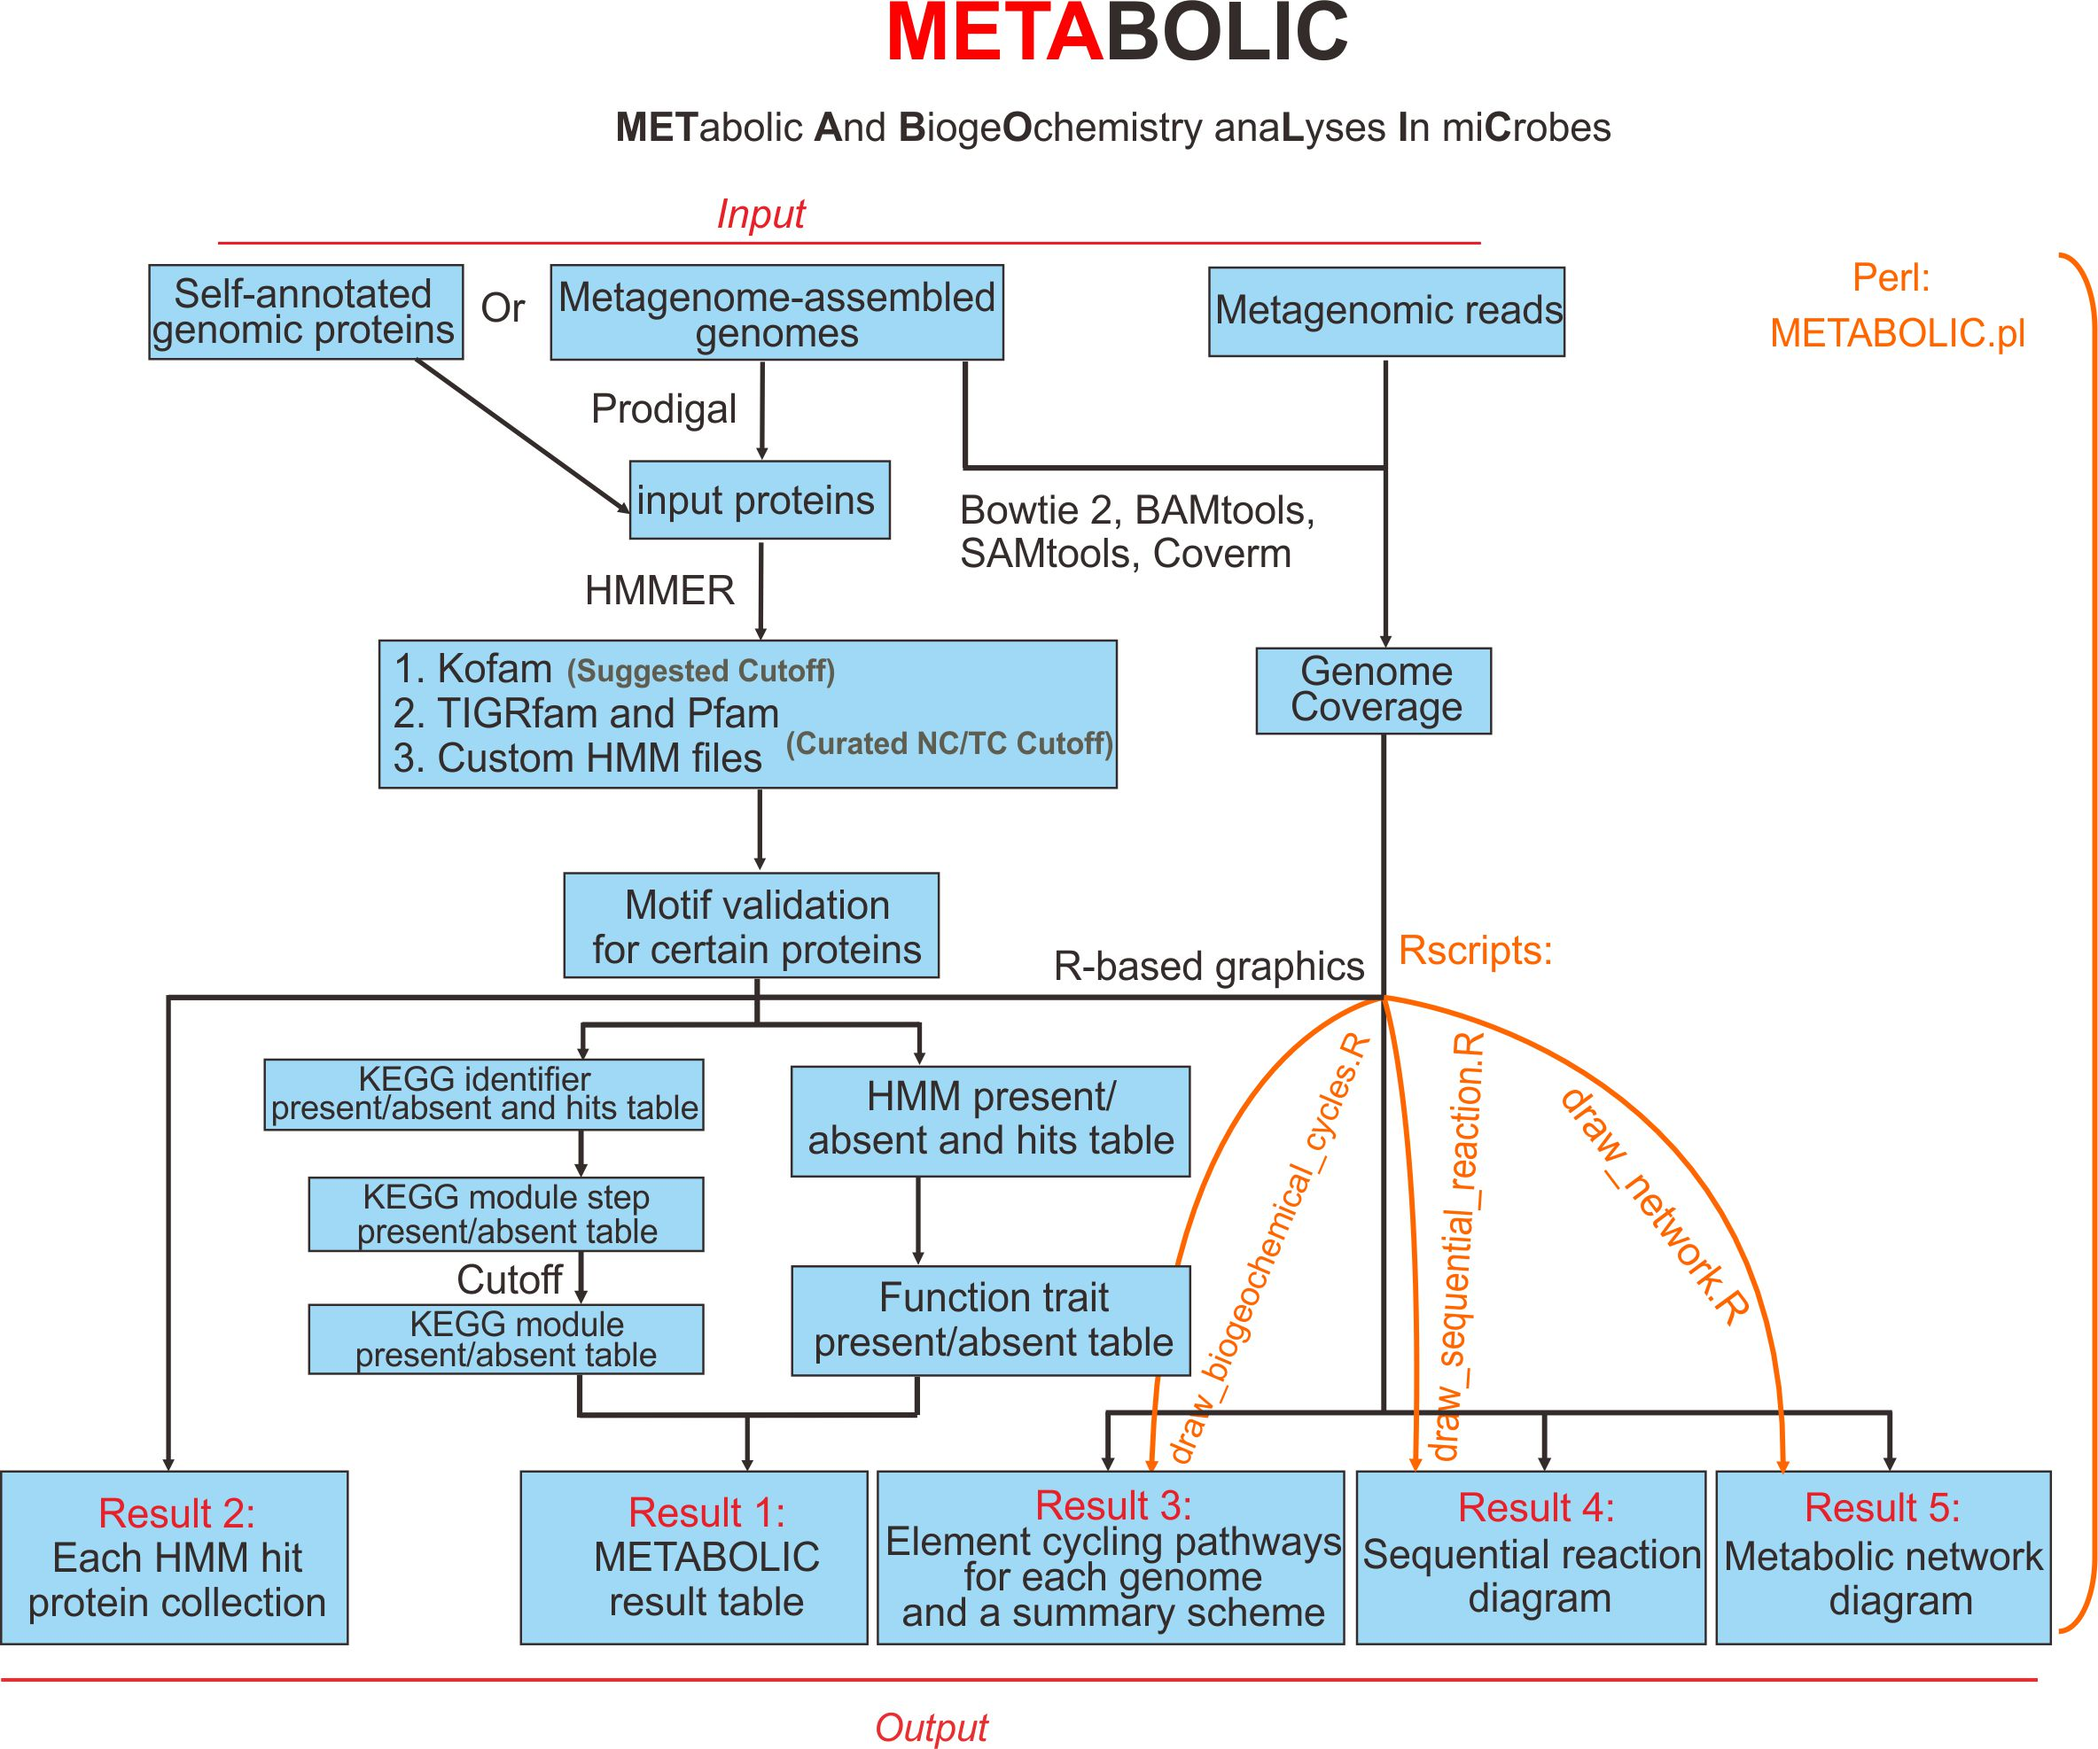
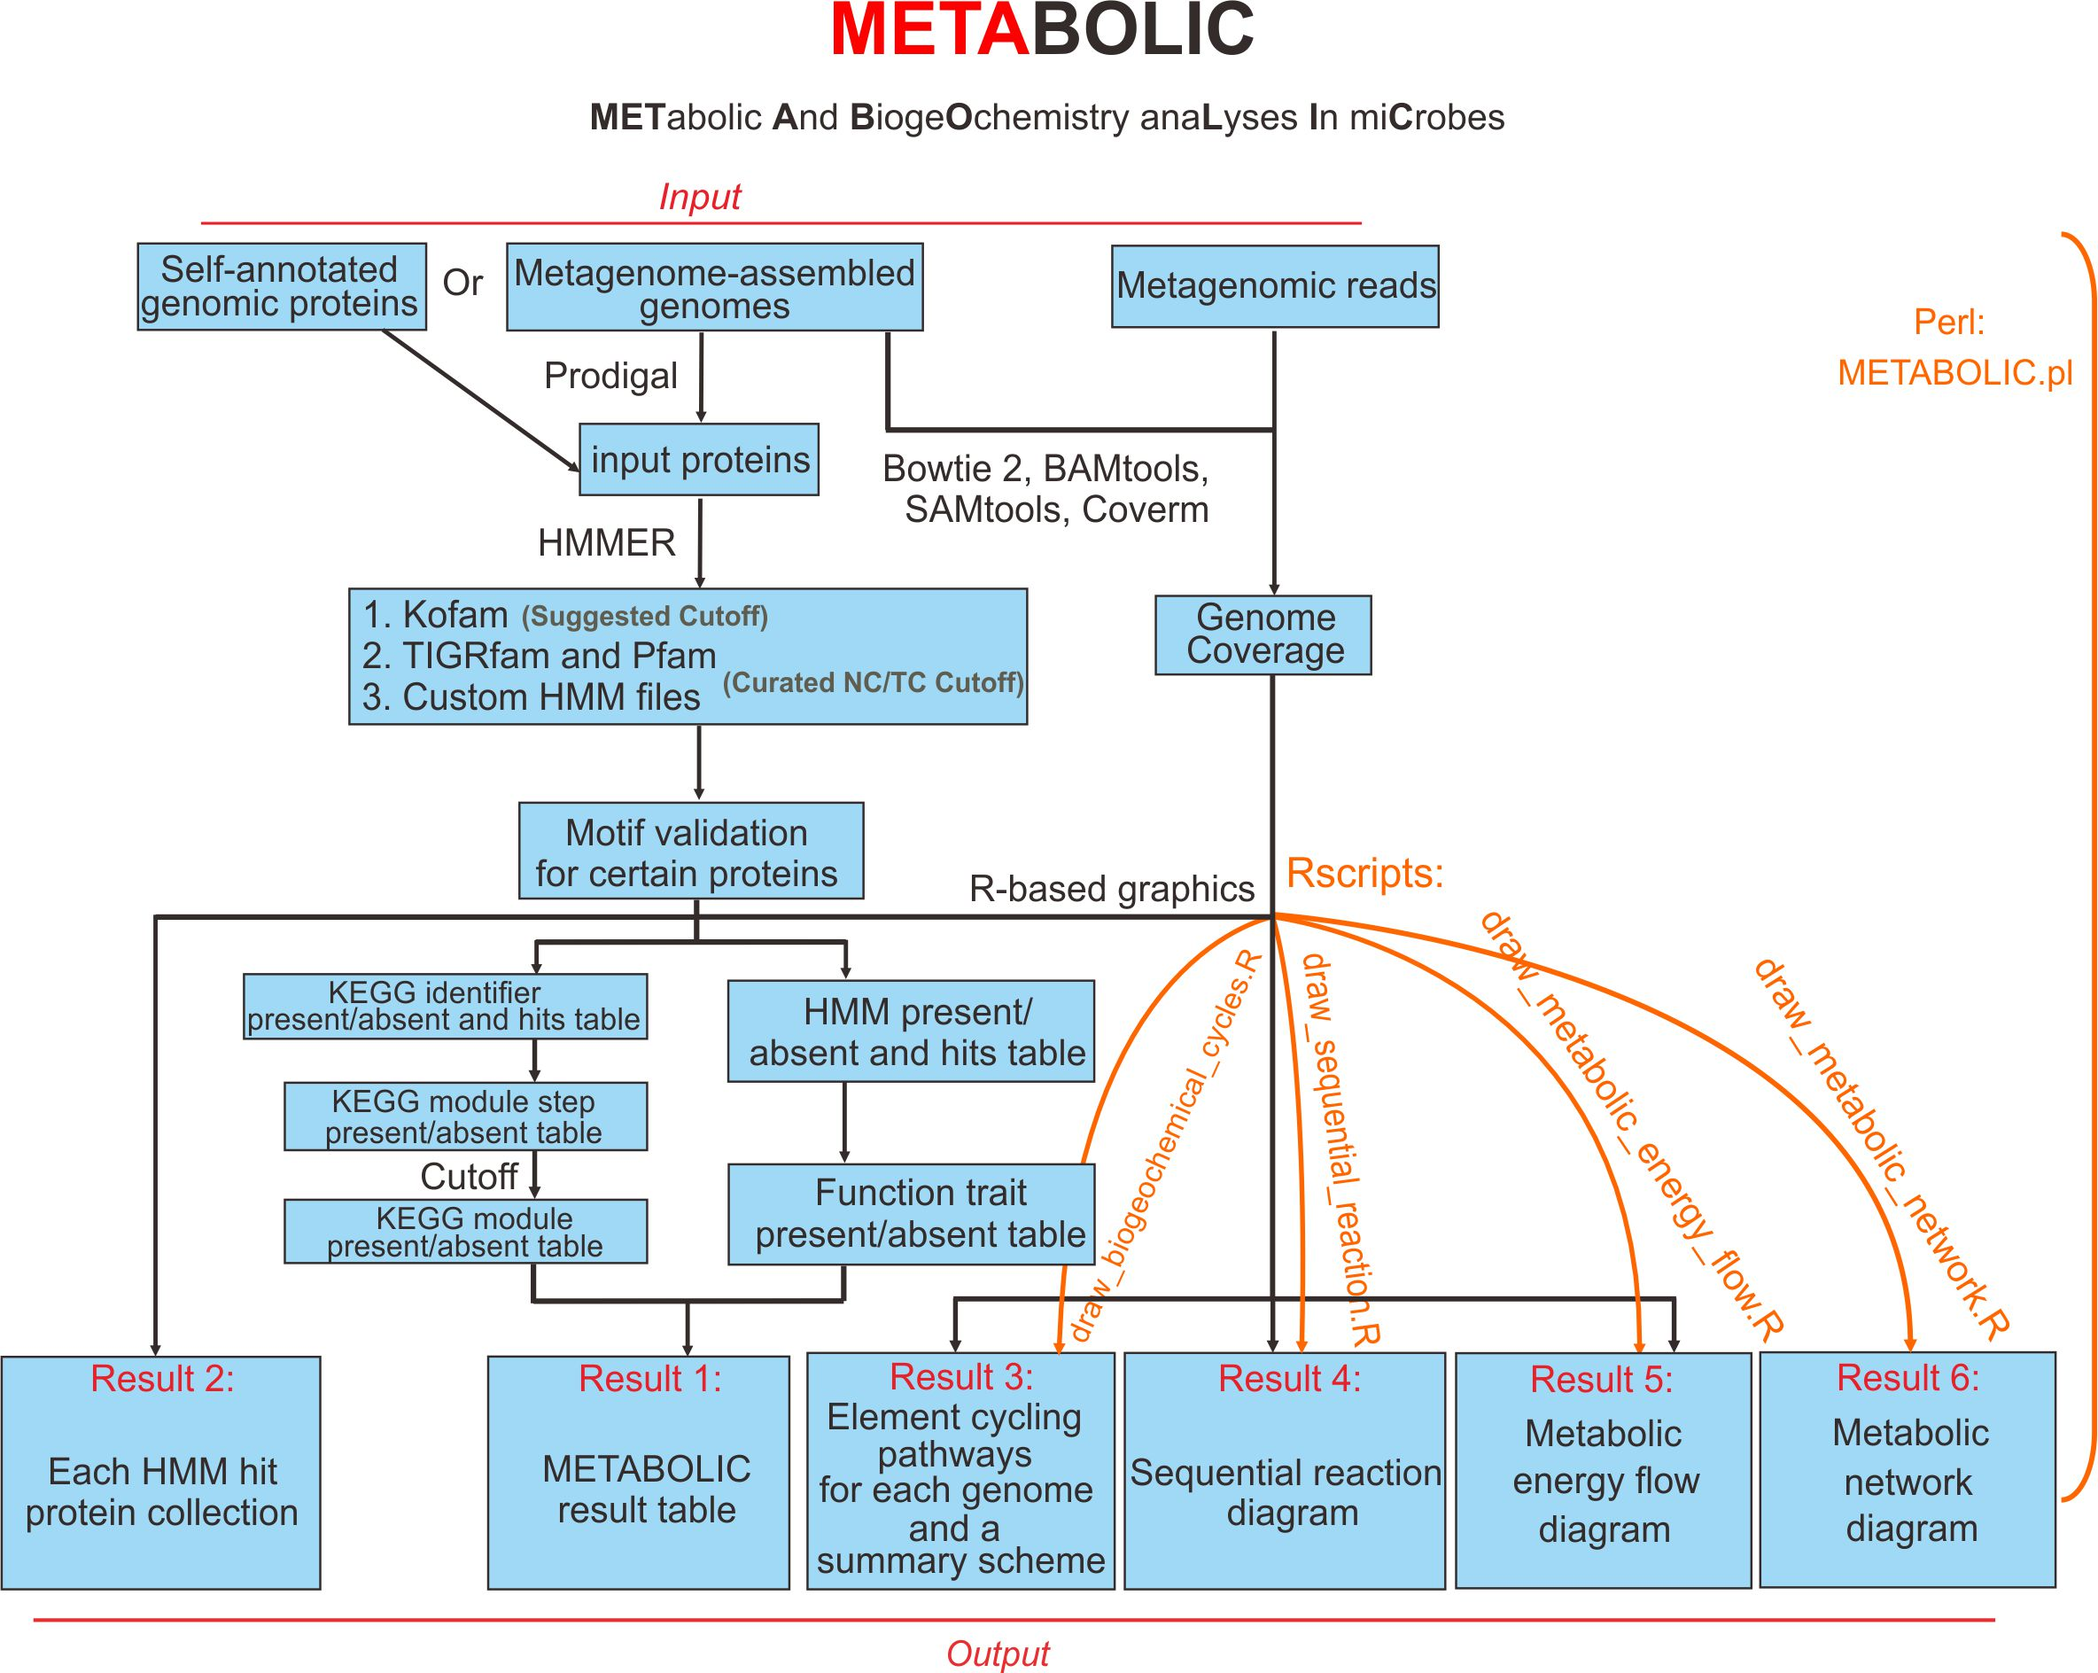
uploaded new scripts and Readme
uploaded new scripts and Readme

Changed region(s): [[0.0, 0.0625, 1.0, 1.0], [0.8327, 0.125, 1.0, 0.25], [0.3701, 0.0, 0.6477, 0.0312]]

diff --git a/README.md b/README.md
@@ -67,6 +67,7 @@ If you are using this program, please consider citing our preprint, available on
     Rscript -e 'install.packages("ggthemes", repos = "http://cran.us.r-project.org")'    
     Rscript -e 'install.packages("ggalluvial", repos = "http://cran.us.r-project.org")'    
     Rscript -e 'install.packages("reshape2", repos = "http://cran.us.r-project.org")'    
+	Rscript -e 'install.packages("ggraph", repos = "http://cran.us.r-project.org")'    
 ```    
 
 
@@ -161,13 +162,12 @@ After running the whole program (perl script) you will obtain the following file
 
 - **METABOLIC result table**
 
-This spreadsheet has 7 tabs:
+This spreadsheet has 6 tabs:
 
     - "HMMHitNum" = Number of HMM hits. if you scroll to the right with the coloured cells you'll find the presence/absence, the number of hits, and on which scaffold it was on. 
     - "FunctionHit" = hits to custom HMM curated database. 
     - "KEGGModuleHit" = KEGG module hits with modules and modules category names. 
     - "KEGGModuleStepHit" = similar to the previous one but broken down into smaller categories (steps).    
-	- "KEGGidentifierHit" = the KEGG identifier searching result - KEGG identifier numbers and hits.    
 	- "dbCAN2Hit" = the dbCAN2 searching result - the CAZys numbers and hits.    
 	- "MEROPSHit" = the MEROPS peptidase searching result - the MEROPS peptidase numbers and hits.    
 
@@ -176,7 +176,8 @@ In all cases if you scroll down you will see what "Gn00X" colnames refer to (the
 
 - **Each hmm hit protein collection** 
 
-
+- **KEGG_identifier_result** 
+the KEGG identifier searching result - KEGG identifier numbers and hits of each genome that could be used to visualize the pathways in KEGG Mapper
 
 - **Elemental/Biogeochemical cycling pathways for each genome and a summary scheme (Both files and figures)**
 
